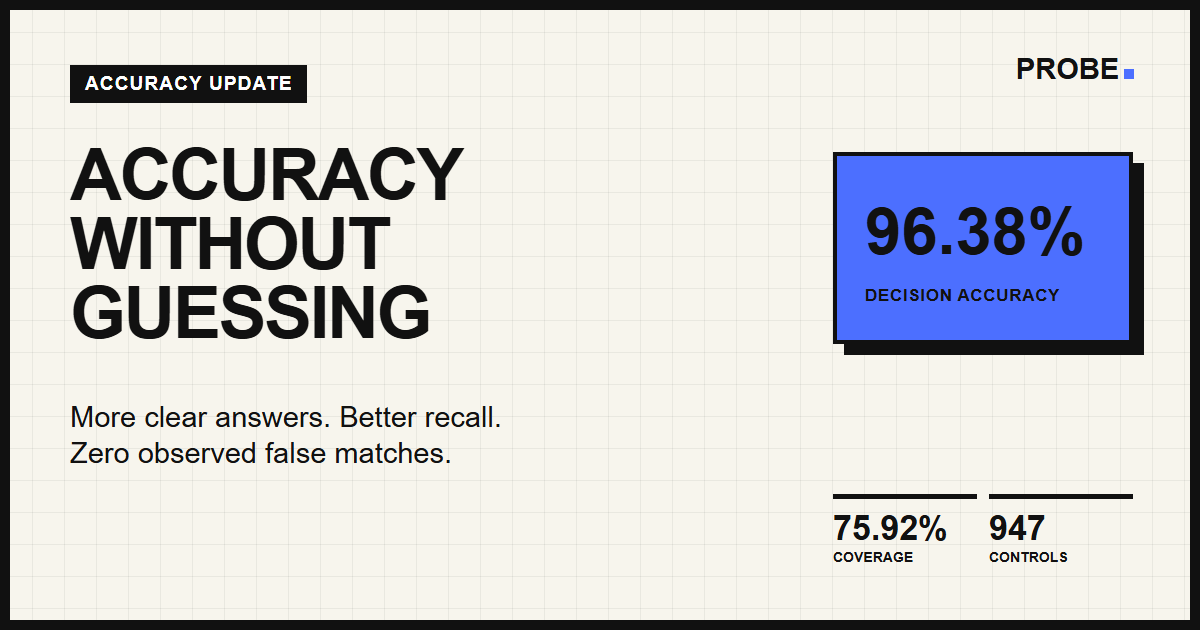
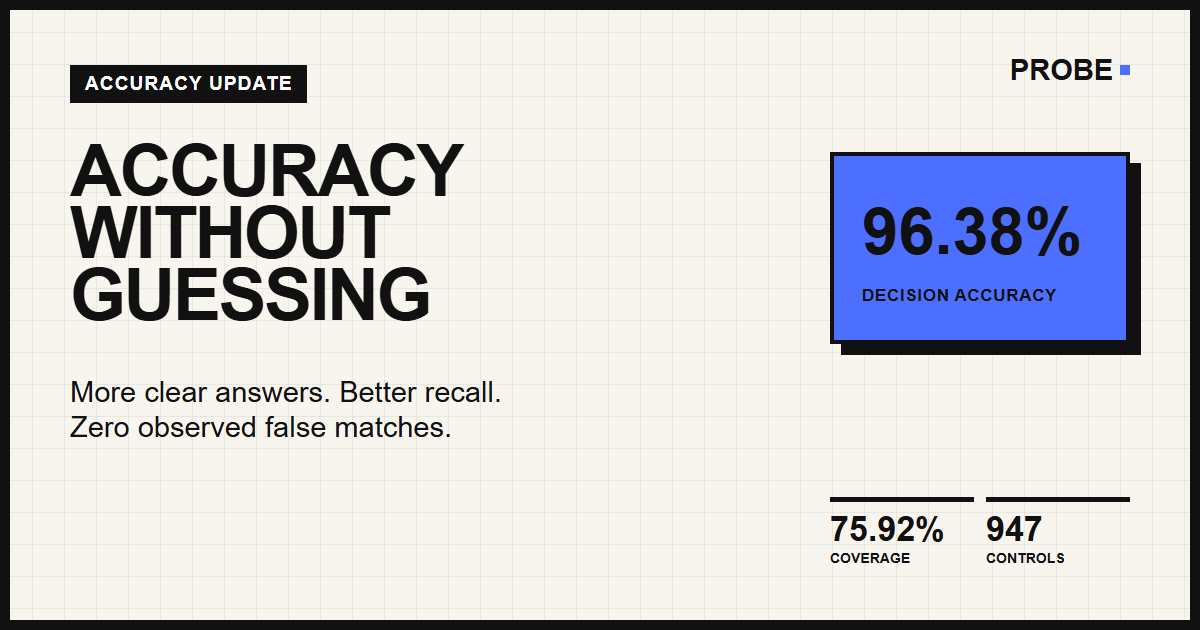
Standardize editorial social cards
Align all article, blog, and roadmap share images to one layout with a consistent logo safe area and refreshed cache keys.

diff --git a/blog/maintaining-a-source-catalog.html b/blog/maintaining-a-source-catalog.html
@@ -8,8 +8,8 @@
   <link rel="canonical" href="https://usernameprobe.com/blog/maintaining-a-source-catalog">
   <link rel="icon" href="/favicon.svg" type="image/svg+xml">
   <meta property="og:type" content="article"><meta property="og:title" content="Maintaining 373 Active Sources"><meta property="og:description" content="How PROBE keeps its functional username sources useful as platforms change."><meta property="og:url" content="https://usernameprobe.com/blog/maintaining-a-source-catalog">
-  <meta property="og:image" content="https://usernameprobe.com/social/maintaining-a-source-catalog.png?v=3"><meta property="og:image:secure_url" content="https://usernameprobe.com/social/maintaining-a-source-catalog.png?v=3"><meta property="og:image:type" content="image/png"><meta property="og:image:width" content="1200"><meta property="og:image:height" content="630"><meta property="og:image:alt" content="Maintaining 373 active sources, including automatic checks and manual-only links.">
-  <meta property="article:published_time" content="2026-09-19"><meta name="twitter:card" content="summary_large_image"><meta name="twitter:title" content="Maintaining 373 Active Sources"><meta name="twitter:description" content="How PROBE keeps its functional username sources useful as platforms change."><meta name="twitter:image" content="https://usernameprobe.com/social/maintaining-a-source-catalog.png?v=3"><meta name="twitter:image:alt" content="Maintaining 373 active sources, including automatic checks and manual-only links.">
+  <meta property="og:image" content="https://usernameprobe.com/social/maintaining-a-source-catalog.png?v=4"><meta property="og:image:secure_url" content="https://usernameprobe.com/social/maintaining-a-source-catalog.png?v=4"><meta property="og:image:type" content="image/png"><meta property="og:image:width" content="1200"><meta property="og:image:height" content="630"><meta property="og:image:alt" content="Maintaining 373 active sources, including automatic checks and manual-only links.">
+  <meta property="article:published_time" content="2026-09-19"><meta name="twitter:card" content="summary_large_image"><meta name="twitter:title" content="Maintaining 373 Active Sources"><meta name="twitter:description" content="How PROBE keeps its functional username sources useful as platforms change."><meta name="twitter:image" content="https://usernameprobe.com/social/maintaining-a-source-catalog.png?v=4"><meta name="twitter:image:alt" content="Maintaining 373 active sources, including automatic checks and manual-only links.">
   <script type="application/ld+json">
   {
     "@context": "https://schema.org",
@@ -18,7 +18,7 @@
     "description": "How PROBE keeps its functional username sources useful as platforms change.",
     "url": "https://usernameprobe.com/blog/maintaining-a-source-catalog",
     "mainEntityOfPage": "https://usernameprobe.com/blog/maintaining-a-source-catalog",
-    "image": "https://usernameprobe.com/social/maintaining-a-source-catalog.png?v=3",
+    "image": "https://usernameprobe.com/social/maintaining-a-source-catalog.png?v=4",
     "datePublished": "2026-09-19",
     "dateModified": "2026-09-20",
     "author": { "@type": "Organization", "name": "PROBE", "url": "https://usernameprobe.com/" },

diff --git a/blog/why-probe-abstains.html b/blog/why-probe-abstains.html
@@ -8,8 +8,8 @@
   <link rel="canonical" href="https://usernameprobe.com/blog/why-probe-abstains">
   <link rel="icon" href="/favicon.svg" type="image/svg+xml">
   <meta property="og:type" content="article"><meta property="og:title" content="Why PROBE Says Unknown"><meta property="og:description" content="Why a blocked or unclear page should not be mistaken for a missing account."><meta property="og:url" content="https://usernameprobe.com/blog/why-probe-abstains">
-  <meta property="og:image" content="https://usernameprobe.com/social/why-probe-abstains.png?v=2"><meta property="og:image:secure_url" content="https://usernameprobe.com/social/why-probe-abstains.png?v=2"><meta property="og:image:type" content="image/png"><meta property="og:image:width" content="1200"><meta property="og:image:height" content="630"><meta property="og:image:alt" content="Unknown is an answer, with blocked, unclear, and unknown response states.">
-  <meta property="article:published_time" content="2026-09-19"><meta name="twitter:card" content="summary_large_image"><meta name="twitter:title" content="Why PROBE Says Unknown"><meta name="twitter:description" content="Why a blocked or unclear page should not be mistaken for a missing account."><meta name="twitter:image" content="https://usernameprobe.com/social/why-probe-abstains.png?v=2"><meta name="twitter:image:alt" content="Unknown is an answer, with blocked, unclear, and unknown response states.">
+  <meta property="og:image" content="https://usernameprobe.com/social/why-probe-abstains.png?v=3"><meta property="og:image:secure_url" content="https://usernameprobe.com/social/why-probe-abstains.png?v=3"><meta property="og:image:type" content="image/png"><meta property="og:image:width" content="1200"><meta property="og:image:height" content="630"><meta property="og:image:alt" content="Unknown is an answer, with blocked, unclear, and unknown response states.">
+  <meta property="article:published_time" content="2026-09-19"><meta name="twitter:card" content="summary_large_image"><meta name="twitter:title" content="Why PROBE Says Unknown"><meta name="twitter:description" content="Why a blocked or unclear page should not be mistaken for a missing account."><meta name="twitter:image" content="https://usernameprobe.com/social/why-probe-abstains.png?v=3"><meta name="twitter:image:alt" content="Unknown is an answer, with blocked, unclear, and unknown response states.">
   <script type="application/ld+json">
   {
     "@context": "https://schema.org",
@@ -18,7 +18,7 @@
     "description": "Why a blocked or unclear page should not be mistaken for a missing account.",
     "url": "https://usernameprobe.com/blog/why-probe-abstains",
     "mainEntityOfPage": "https://usernameprobe.com/blog/why-probe-abstains",
-    "image": "https://usernameprobe.com/social/why-probe-abstains.png?v=2",
+    "image": "https://usernameprobe.com/social/why-probe-abstains.png?v=3",
     "datePublished": "2026-09-19",
     "dateModified": "2026-09-19",
     "author": { "@type": "Organization", "name": "PROBE", "url": "https://usernameprobe.com/" },

diff --git a/roadmap.html b/roadmap.html
@@ -8,8 +8,8 @@
   <link rel="canonical" href="https://usernameprobe.com/roadmap">
   <link rel="icon" href="/favicon.svg" type="image/svg+xml">
   <meta property="og:type" content="website"><meta property="og:title" content="PROBE Roadmap"><meta property="og:description" content="What is shipped, in progress, next, and being explored for PROBE."><meta property="og:url" content="https://usernameprobe.com/roadmap">
-  <meta property="og:image" content="https://usernameprobe.com/social/probe-roadmap.png?v=1"><meta property="og:image:secure_url" content="https://usernameprobe.com/social/probe-roadmap.png?v=1"><meta property="og:image:type" content="image/png"><meta property="og:image:width" content="1200"><meta property="og:image:height" content="630"><meta property="og:image:alt" content="The PROBE roadmap showing shipped, in progress, next, and exploring milestones.">
-  <meta name="twitter:card" content="summary_large_image"><meta name="twitter:title" content="PROBE Roadmap"><meta name="twitter:description" content="What is shipped, in progress, next, and being explored for PROBE."><meta name="twitter:image" content="https://usernameprobe.com/social/probe-roadmap.png?v=1"><meta name="twitter:image:alt" content="The PROBE roadmap showing shipped, in progress, next, and exploring milestones.">
+  <meta property="og:image" content="https://usernameprobe.com/social/probe-roadmap.png?v=2"><meta property="og:image:secure_url" content="https://usernameprobe.com/social/probe-roadmap.png?v=2"><meta property="og:image:type" content="image/png"><meta property="og:image:width" content="1200"><meta property="og:image:height" content="630"><meta property="og:image:alt" content="The PROBE roadmap showing shipped, in progress, next, and exploring milestones.">
+  <meta name="twitter:card" content="summary_large_image"><meta name="twitter:title" content="PROBE Roadmap"><meta name="twitter:description" content="What is shipped, in progress, next, and being explored for PROBE."><meta name="twitter:image" content="https://usernameprobe.com/social/probe-roadmap.png?v=2"><meta name="twitter:image:alt" content="The PROBE roadmap showing shipped, in progress, next, and exploring milestones.">
   <script type="application/ld+json">
   {
     "@context": "https://schema.org",
@@ -17,7 +17,7 @@
     "name": "PROBE Roadmap",
     "description": "What is shipped, in progress, next, and being explored for PROBE.",
     "url": "https://usernameprobe.com/roadmap",
-    "image": "https://usernameprobe.com/social/probe-roadmap.png?v=1",
+    "image": "https://usernameprobe.com/social/probe-roadmap.png?v=2",
     "isPartOf": { "@type": "WebSite", "name": "PROBE", "url": "https://usernameprobe.com/" }
   }
   </script>

diff --git a/blog/improving-accuracy-without-guessing.html b/blog/improving-accuracy-without-guessing.html
@@ -11,8 +11,8 @@
   <meta property="og:title" content="Improving Accuracy Without Guessing">
   <meta property="og:description" content="A full-catalog evidence cycle raised PROBE's coverage and recall while preserving zero observed false matches.">
   <meta property="og:url" content="https://usernameprobe.com/blog/improving-accuracy-without-guessing">
-  <meta property="og:image" content="https://usernameprobe.com/social/improving-accuracy-without-guessing.png?v=1">
-  <meta property="og:image:secure_url" content="https://usernameprobe.com/social/improving-accuracy-without-guessing.png?v=1">
+  <meta property="og:image" content="https://usernameprobe.com/social/improving-accuracy-without-guessing.png?v=2">
+  <meta property="og:image:secure_url" content="https://usernameprobe.com/social/improving-accuracy-without-guessing.png?v=2">
   <meta property="og:image:type" content="image/png">
   <meta property="og:image:width" content="1200">
   <meta property="og:image:height" content="630">
@@ -22,7 +22,7 @@
   <meta name="twitter:card" content="summary_large_image">
   <meta name="twitter:title" content="Improving Accuracy Without Guessing">
   <meta name="twitter:description" content="How PROBE improved coverage and recall without turning uncertainty into false confidence.">
-  <meta name="twitter:image" content="https://usernameprobe.com/social/improving-accuracy-without-guessing.png?v=1">
+  <meta name="twitter:image" content="https://usernameprobe.com/social/improving-accuracy-without-guessing.png?v=2">
   <meta name="twitter:image:alt" content="PROBE accuracy update showing 96.38 percent decision accuracy, 75.92 percent coverage, and zero observed false matches.">
   <script type="application/ld+json">
   {
@@ -32,7 +32,7 @@
     "description": "How PROBE raised username-search coverage to 75.92% and decision accuracy to 96.38% while preserving zero observed false matches.",
     "url": "https://usernameprobe.com/blog/improving-accuracy-without-guessing",
     "mainEntityOfPage": "https://usernameprobe.com/blog/improving-accuracy-without-guessing",
-    "image": "https://usernameprobe.com/social/improving-accuracy-without-guessing.png?v=1",
+    "image": "https://usernameprobe.com/social/improving-accuracy-without-guessing.png?v=2",
     "datePublished": "2026-09-28",
     "dateModified": "2026-09-28",
     "author": { "@type": "Organization", "name": "PROBE", "url": "https://usernameprobe.com/" },

diff --git a/blog/measuring-username-search-accuracy.html b/blog/measuring-username-search-accuracy.html
@@ -11,8 +11,8 @@
   <meta property="og:title" content="Measuring Username Search Accuracy Honestly">
   <meta property="og:description" content="What 947 production-parity controls reveal about accuracy, coverage, and uncertainty.">
   <meta property="og:url" content="https://usernameprobe.com/blog/measuring-username-search-accuracy">
-  <meta property="og:image" content="https://usernameprobe.com/social/measuring-username-search-accuracy.png?v=2">
-  <meta property="og:image:secure_url" content="https://usernameprobe.com/social/measuring-username-search-accuracy.png?v=2">
+  <meta property="og:image" content="https://usernameprobe.com/social/measuring-username-search-accuracy.png?v=3">
+  <meta property="og:image:secure_url" content="https://usernameprobe.com/social/measuring-username-search-accuracy.png?v=3">
   <meta property="og:image:type" content="image/png">
   <meta property="og:image:width" content="1200">
   <meta property="og:image:height" content="630">
@@ -21,7 +21,7 @@
   <meta name="twitter:card" content="summary_large_image">
   <meta name="twitter:title" content="Measuring Username Search Accuracy Honestly">
   <meta name="twitter:description" content="What 947 production-parity controls reveal about accuracy, coverage, and uncertainty.">
-  <meta name="twitter:image" content="https://usernameprobe.com/social/measuring-username-search-accuracy.png?v=2">
+  <meta name="twitter:image" content="https://usernameprobe.com/social/measuring-username-search-accuracy.png?v=3">
   <meta name="twitter:image:alt" content="Measuring search accuracy, showing PROBE's 95.34 percent decision accuracy and a bar chart.">
   <script type="application/ld+json">
   {
@@ -31,7 +31,7 @@
     "description": "What 947 production-parity controls reveal about accuracy, coverage, and uncertainty.",
     "url": "https://usernameprobe.com/blog/measuring-username-search-accuracy",
     "mainEntityOfPage": "https://usernameprobe.com/blog/measuring-username-search-accuracy",
-    "image": "https://usernameprobe.com/social/measuring-username-search-accuracy.png?v=2",
+    "image": "https://usernameprobe.com/social/measuring-username-search-accuracy.png?v=3",
     "datePublished": "2026-09-19",
     "dateModified": "2026-09-28",
     "author": { "@type": "Organization", "name": "PROBE", "url": "https://usernameprobe.com/" },

diff --git a/blog/index.html b/blog/index.html
@@ -11,8 +11,8 @@
   <meta property="og:title" content="PROBE Blog">
   <meta property="og:description" content="Engineering notes on trustworthy username intelligence.">
   <meta property="og:url" content="https://usernameprobe.com/blog/">
-  <meta property="og:image" content="https://usernameprobe.com/social/probe-blog.png?v=2">
-  <meta property="og:image:secure_url" content="https://usernameprobe.com/social/probe-blog.png?v=2">
+  <meta property="og:image" content="https://usernameprobe.com/social/probe-blog.png?v=3">
+  <meta property="og:image:secure_url" content="https://usernameprobe.com/social/probe-blog.png?v=3">
   <meta property="og:image:type" content="image/png">
   <meta property="og:image:width" content="1200">
   <meta property="og:image:height" content="630">
@@ -20,7 +20,7 @@
   <meta name="twitter:card" content="summary_large_image">
   <meta name="twitter:title" content="PROBE Blog">
   <meta name="twitter:description" content="Engineering notes on trustworthy username intelligence.">
-  <meta name="twitter:image" content="https://usernameprobe.com/social/probe-blog.png?v=2">
+  <meta name="twitter:image" content="https://usernameprobe.com/social/probe-blog.png?v=3">
   <meta name="twitter:image:alt" content="The PROBE Log with 373 active sources and a connected source diagram.">
   <script type="application/ld+json">
   {
